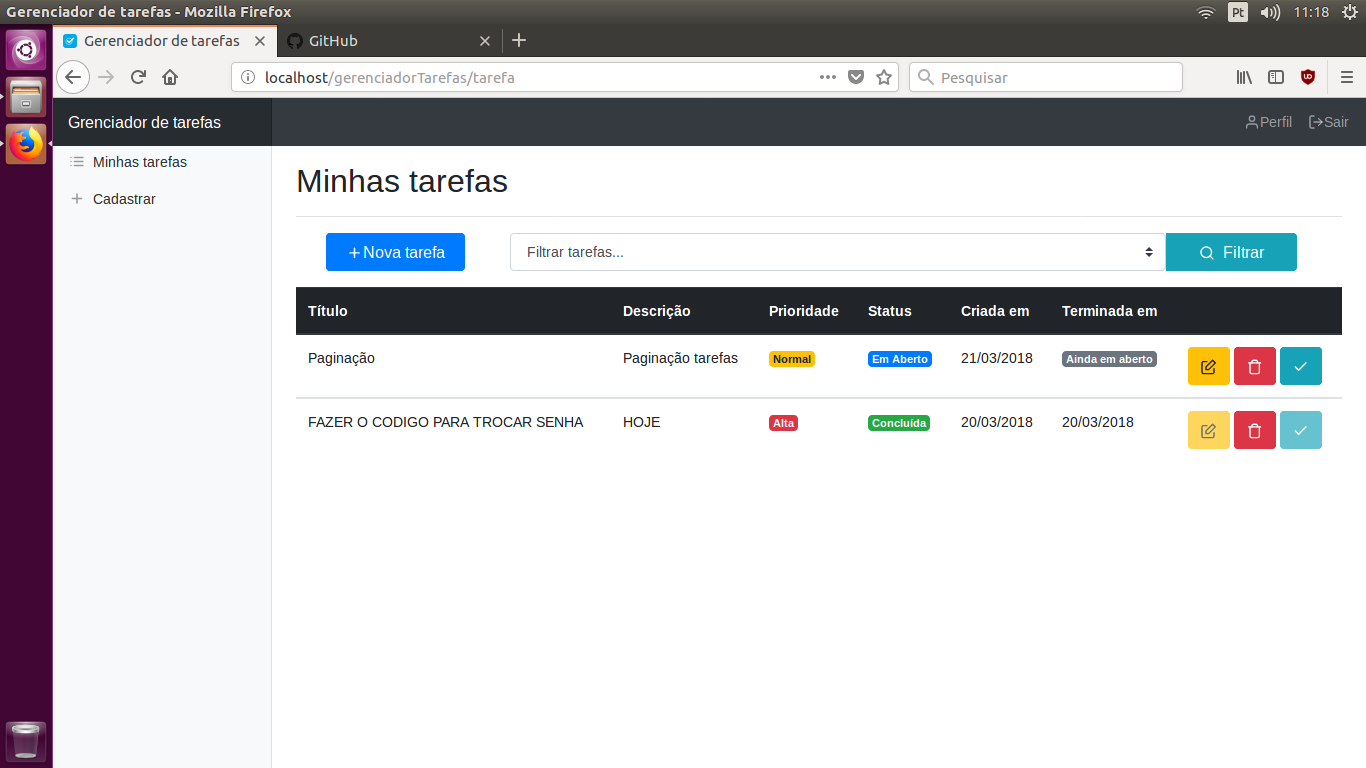
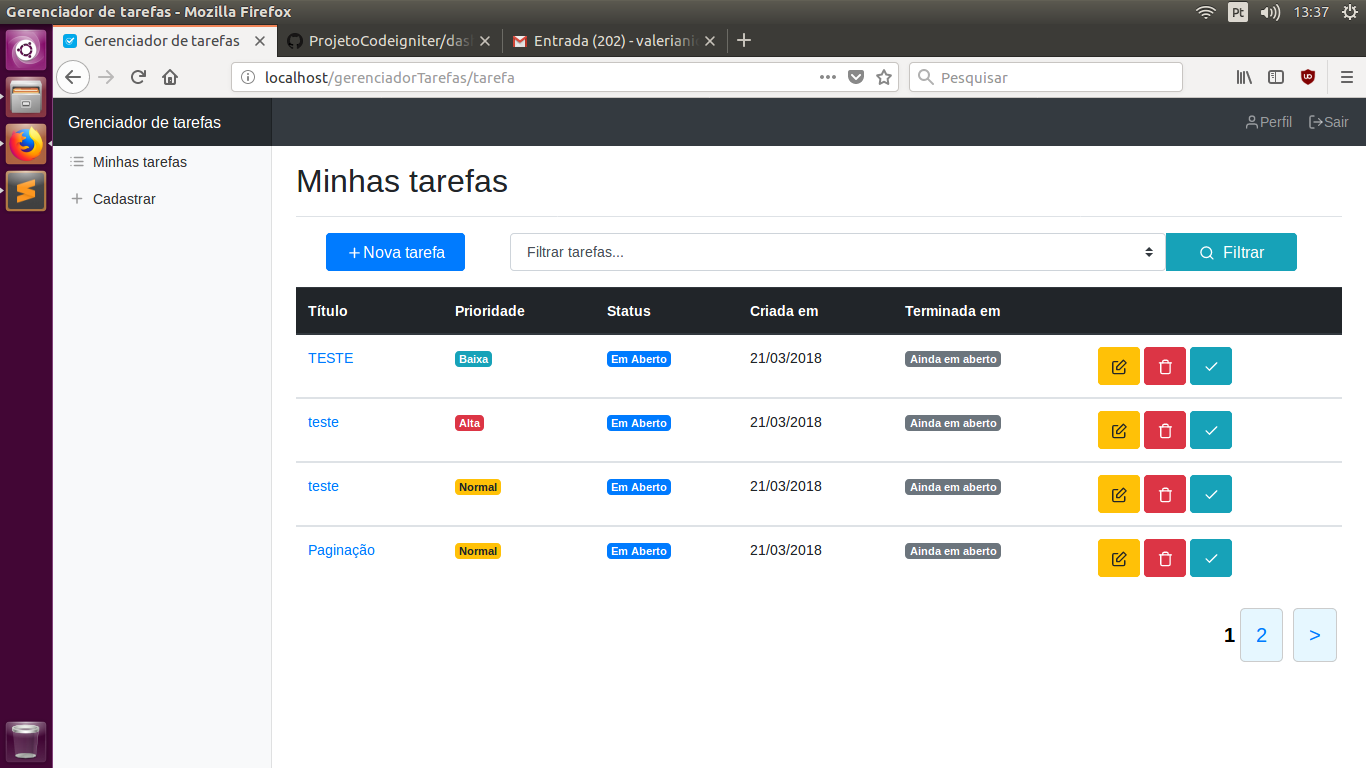
Paginação na lista das minhas tarefas

diff --git a/assets/css/dashboard.css b/assets/css/dashboard.css
@@ -91,3 +91,24 @@ body {
 
 .border-top { border-top: 1px solid #e5e5e5; }
 .border-bottom { border-bottom: 1px solid #e5e5e5; }
+
+
+/*Paginação*/
+
+.paginacao {
+  font-size: 20px;
+  margin-top: 15px;
+  float: right;
+  color: #000;
+}
+
+.paginacao a{
+    background-color: #e6f7ff;
+    color: ##33bbff;
+    margin: 5px;
+    padding: 15px;
+    font-size: 20px;
+    border: solid 1px #ccc;
+    border-radius: 5px;
+    text-decoration: none;
+}

diff --git a/application/models/Tarefa_model.php b/application/models/Tarefa_model.php
@@ -3,6 +3,30 @@ defined('BASEPATH') OR exit('No direct script access allowed');
 
 class Tarefa_model extends MY_Model {
 
+    /*Todos os registros de acordo com o usuario_id*/
+    public function getAll($usuario_id, $tabela, $por_pagina, $inicio)
+    {
+        if (isset($usuario_id) && isset($tabela) && isset($por_pagina) && isset($inicio))
+        {
+            $this->db->where('usuario_id', $usuario_id); /*pega todos os registros que possuem o usuario_id informado*/
+
+            $this->db->limit($por_pagina, $inicio); /*limita o número de registros*/
+
+            $this->db->order_by('id desc'); /*ordena as tarefas pelo ID*/
+            $query = $this->db->get($tabela);
+
+            if ($query->num_rows() > 0)
+            {
+                return $query->result_array();
+            } else
+            {
+                return NULL;
+            }
+        }
+        return FALSE;
+    }
+
+
 	/*filtrar tarefas*/
     public function filtro($usuario_id, $filtro, $tabela)
     {
@@ -20,6 +44,21 @@ class Tarefa_model extends MY_Model {
             {
                 return NULL;
             }
+        }
+        return FALSE;
+    }
+
+
+    /*número de registros da tabela*/
+    public function num_rows($usuario_id, $tabela)
+    {
+        if (isset($usuario_id) && isset($tabela))
+        {
+            $this->db->where('usuario_id', $usuario_id);
+
+            $query = $this->db->get($tabela);
+
+            return $query->num_rows();
         }
         return FALSE;
     }

diff --git a/application/controllers/Tarefa.php b/application/controllers/Tarefa.php
@@ -24,11 +24,31 @@ class Tarefa extends CI_Controller {
     {
     	$this->verificar_sessao();
 
+    	$por_pagina = 4; /*Número de registros por página*/
+    	$inicio = ($this->uri->segment(2)) ? $this->uri->segment(2) : ''; /*Pega o segundo campo da url*/
+
     	$usuario_id = $this->session->userdata('usuario_id');
     	$tabela = "tarefas";
     	/*registros do banco de dados*/
- 		$dados['tarefas'] = $this->Tarefa_model->getAll($usuario_id, $tabela);
+ 		$dados['tarefas'] = $this->Tarefa_model->getAll($usuario_id, $tabela, $por_pagina, $inicio);
 
+ 		/*Dados para paginação*/
+ 		$this->load->library('pagination');
+
+ 		$config['base_url'] = base_url() . 'page/';
+		$config['per_page'] = $por_pagina;
+		$config['total_rows'] = $this->Tarefa_model->num_rows($usuario_id, $tabela);
+		$config['num_links'] = 5;
+		$config['first_url'] = 0;
+		$config['uri_segment'] = 2;
+
+		/*Inicializar a paginação*/
+		$this->pagination->initialize($config);
+
+		/*Criar links para paginação*/
+		$dados['paginacao'] = $this->pagination->create_links();
+
+		/*Carregando a página*/
         $dados['titulo'] = "Minhas tarefas";
 		$dados['conteudo'] = "tarefa/lista";
 

diff --git a/application/core/MY_Model.php b/application/core/MY_Model.php
@@ -34,26 +34,6 @@ class MY_Model extends CI_Model {
         return FALSE;
     }
 
-    /*Todos os registros de acordo com o usuario_id*/
-    public function getAll($usuario_id, $tabela)
-    {
-        if (isset($usuario_id) && isset($tabela))
-        {
-            $this->db->where('usuario_id', $usuario_id);
-            $this->db->order_by('id desc'); /*ordena as tarefas pelo ID*/
-            $query = $this->db->get($tabela);
-
-            if ($query->num_rows() > 0)
-            {
-                return $query->result_array();
-            } else
-            {
-                return NULL;
-            }
-        }
-        return FALSE;
-    }
-
 
     public function excluir($id, $tabela)
     {

diff --git a/application/config/routes.php b/application/config/routes.php
@@ -52,5 +52,6 @@ defined('BASEPATH') OR exit('No direct script access allowed');
 $route['default_controller'] = 'dashboard';
 $route['tarefa/excluir/(:num)'] = 'tarefa/excluir/$1';
 $route['tarefa/concluir/(:num)'] = 'tarefa/concluir/$1';
+$route['page/(:num)'] = 'tarefa/index/$1';
 $route['404_override'] = '';
 $route['translate_uri_dashes'] = FALSE;

diff --git a/application/views/tarefa/lista.php b/application/views/tarefa/lista.php
@@ -113,3 +113,9 @@
         <?php endforeach;?>
     </table>
 <?php endif; ?>
+
+
+<!--Paginação-->
+<div class="paginacao">
+    <?php echo isset($paginacao) ? $paginacao : ''; ?>
+</div>
